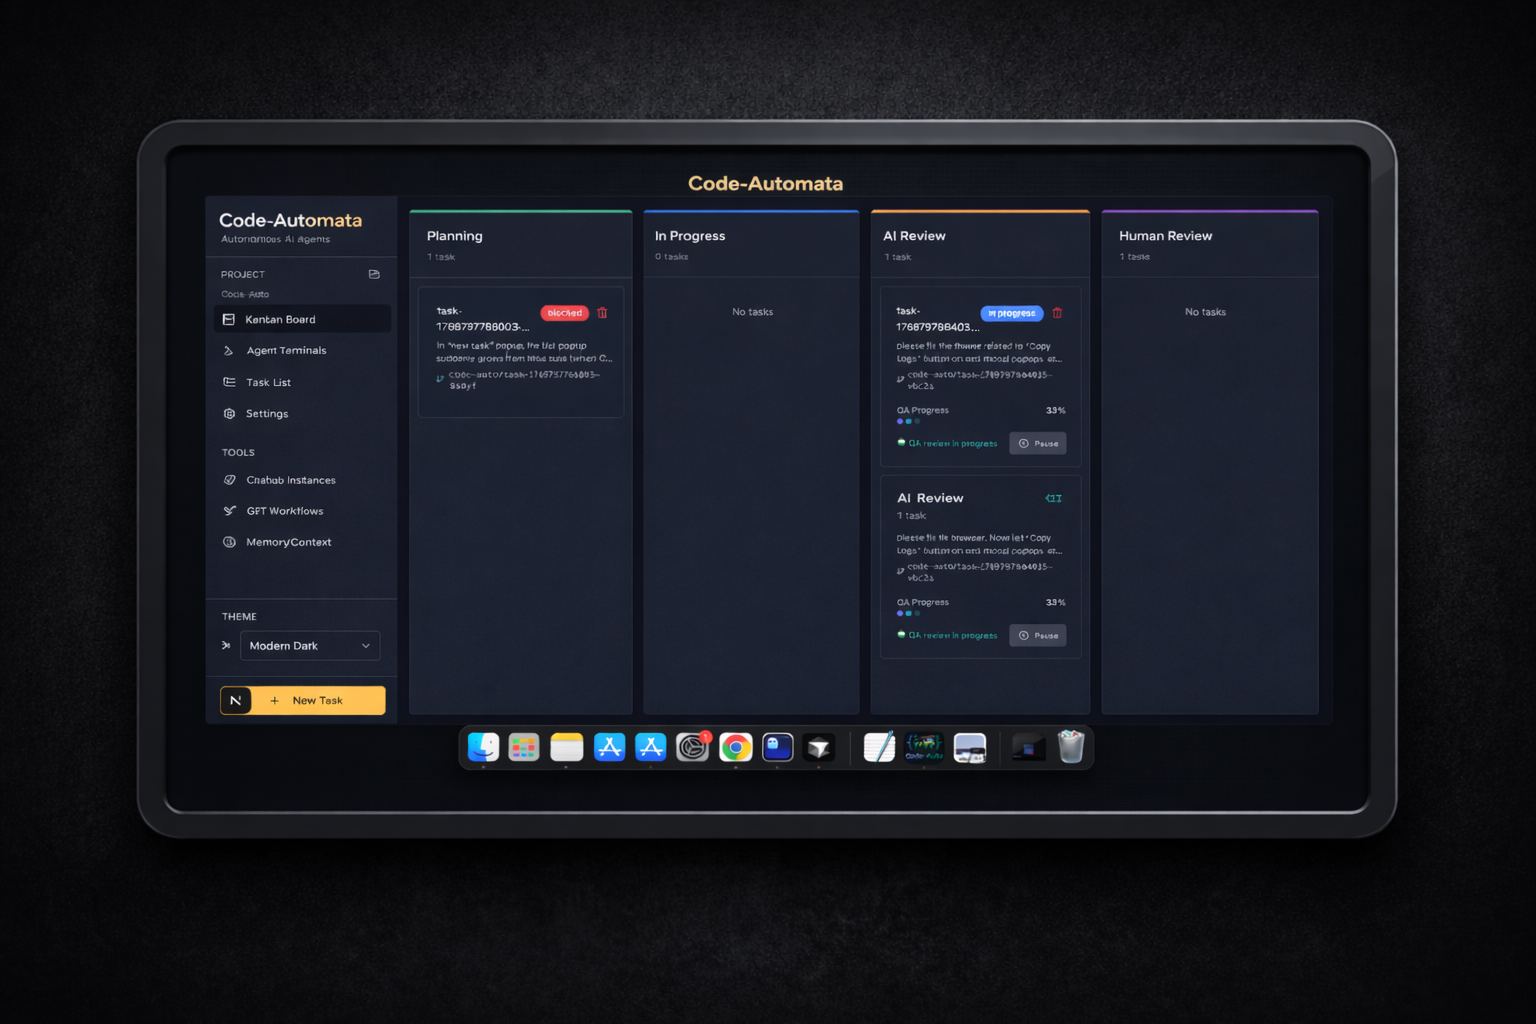
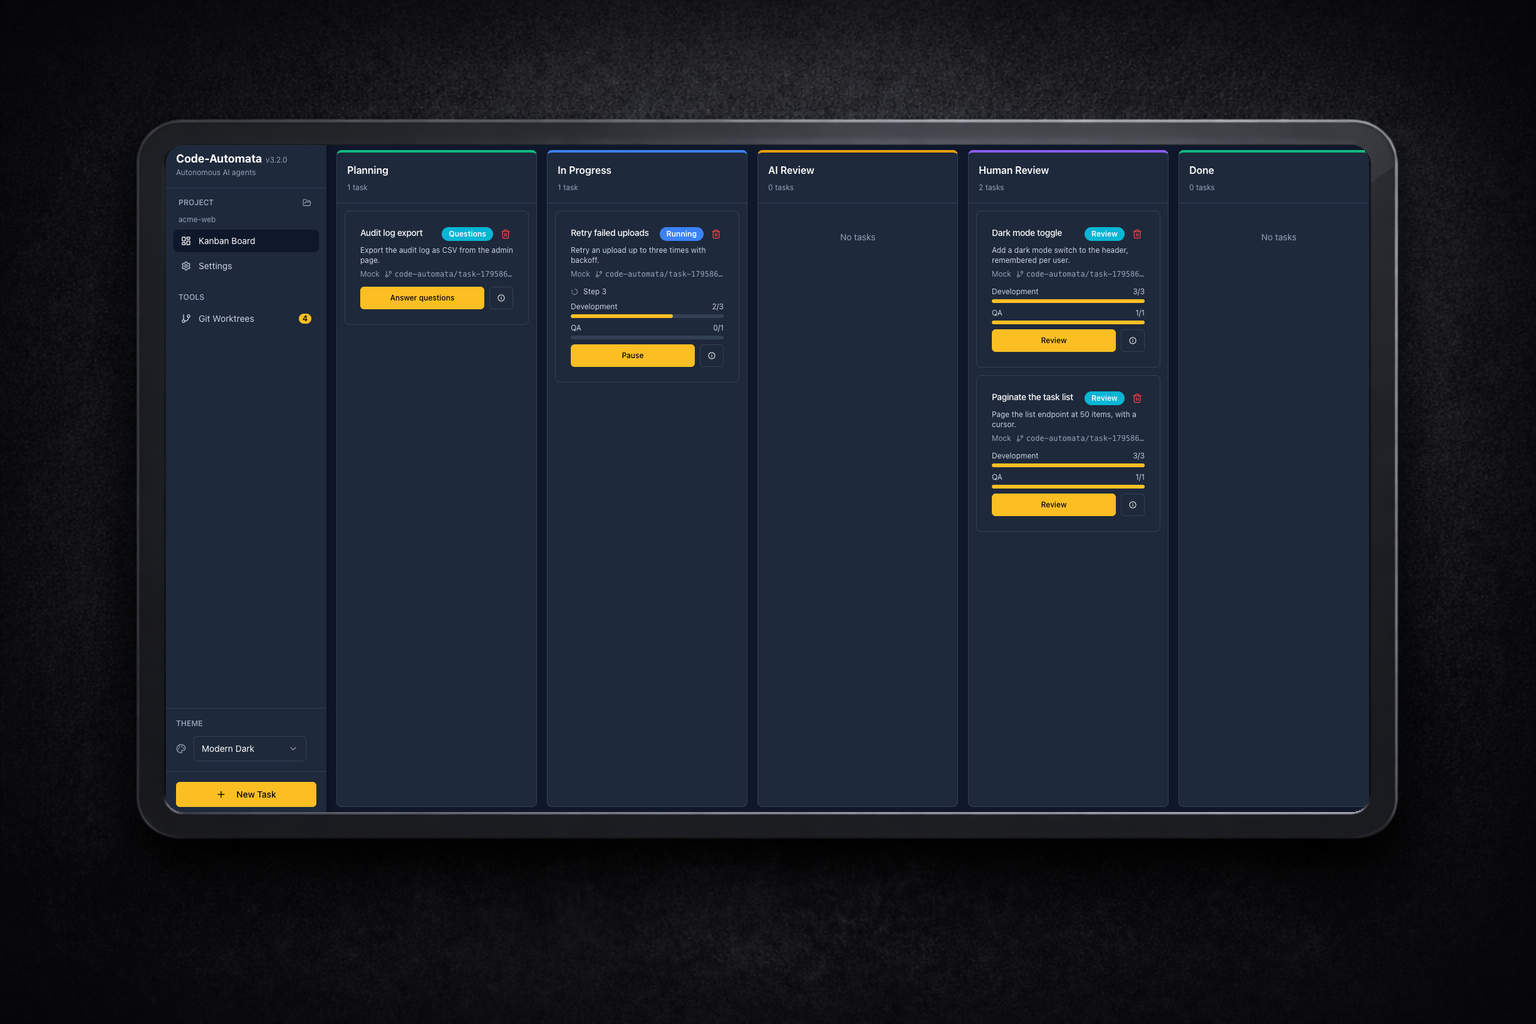
Release 3.2.0: version, changelog, README demo and screenshots
- Version 3.2.0 (Cargo.toml, ui/package.json).
- CHANGELOG 3.2.0: rate-limit pause, Codex, Gemini (experimental), an
  agent per phase with the default Claude Code models and how to change
  them, project memory, MCP servers for agents, Open in terminal, nvm
  lookup; known limits as the reviewer listed (Codex never run live,
  Gemini's Google sign-in ended, Windows .cmd shims, Open in terminal
  untried on Windows and Linux, Claude limit wordings unproven against a
  real limit, the eight-day cap).
- README: the agents and a Things-to-know line each for limits, MCP and
  memory, and Gemini and Codex sign-in; a Screenshots section.
- e2e/demo.mjs (`yarn demo`): a scripted, headless 1920x1080 run of the
  real UI with the mock agent, recorded to video with screenshots.
  docs/images/ca.png now shows the real board inside the original tablet
  frame; the 2.2.x step screenshots (unreferenced, about 19 MB) are
  replaced by six current ones in docs/images/screenshots/.
- Model dropdowns show the model's name, the id in a tooltip (the
  "Name (id)" text was cut off).
- The live engine test runs a different agent configuration per phase;
  it passed against Claude Code (Sonnet) to Human Review.

Claude-Session: https://claude.ai/code/session_01Euju6UiFfM3Ax8sqArwAHM

Changed region(s): [[0.0938, 0.125, 0.9062, 0.8125]]

diff --git a/ui/src/components/tasks/agent-picker.tsx b/ui/src/components/tasks/agent-picker.tsx
@@ -373,8 +373,8 @@ export function ModelField({
       >
         <option value="">Default (the CLI picks)</option>
         {models.map((m) => (
-          <option key={m.id} value={m.id}>
-            {m.label === m.id ? m.id : `${m.label} (${m.id})`}
+          <option key={m.id} value={m.id} title={m.id}>
+            {m.label}
           </option>
         ))}
         <option value={OTHER}>Other…</option>

diff --git a/crates/core/tests/live_engine.rs b/crates/core/tests/live_engine.rs
@@ -32,13 +32,23 @@ async fn live_claude_takes_a_task_from_plan_to_human_review() {
     settings.save(&project).await.unwrap();
 
     let engine = Engine::open(project, Binaries::from_env()).await.unwrap();
-    let mut agent = AgentConfig::new(Provider::Claude);
-    agent.model = Some("sonnet".into());
+    // A different configuration per phase (all Sonnet, so the run stays cheap): the alias to plan
+    // and review, the full id to develop.
+    let sonnet = |model: &str| {
+        let mut agent = AgentConfig::new(Provider::Claude);
+        agent.model = Some(model.into());
+        agent
+    };
+    let agents = ca_core::PhaseAgents {
+        planning: sonnet("sonnet"),
+        dev: sonnet("claude-sonnet-5-5"),
+        qa: sonnet("sonnet"),
+    };
     let task = engine
         .create_task(
             "Add a hello file",
             "Create a file named hello.txt at the repository root containing exactly the word hello. Nothing else.",
-            agent,
+            agents,
             false,
         )
         .await

diff --git a/CHANGELOG.md b/CHANGELOG.md
@@ -4,6 +4,39 @@ All notable changes to Code-Automata are documented here.
 
 ---
 
+## 3.2.0
+
+Rate limits, Codex, an agent per phase, and project memory. If you have an earlier 3.x installed, it offers this update when it starts.
+
+### New
+
+- **A usage limit no longer fails your tasks.** When Claude Code, Codex, Cursor, Amp or Gemini stops because your subscription's limit was reached, the task shows "Rate-limited" and "Resumes at 15:42", and starts again on its own once the limit resets (also after a restart, when its project is open). Other tasks on the same CLI wait instead of failing one after another; tasks on other CLIs go on. An Opus or Sonnet limit holds back only tasks on that model. When the CLI does not say when the limit resets, the task tries again after 30 minutes ("Retrying at …"). "Resume now" tries straight away; you can also move the task to another CLI or model.
+- **Codex** (OpenAI's CLI) can run tasks: planning in its read-only sandbox, development and QA with full access, its reasoning effort as the mode, answers checked against the task's schema.
+- **Gemini (experimental)**: Google's Gemini CLI can run tasks too. See the known limits.
+- **An agent per phase.** The new-task dialog picks the agent for planning, development and QA separately, each a CLI and a model, or one for all three ("Use the same agent…"). Models come from each CLI's own list where it has one (Cursor, Gemini, Codex), else the app's, plus "Default" and "Other…". New tasks start from your last choice; with Claude Code the first time, **Fable 5.2 plans and reviews and Opus 5.5 develops**. To change that, untick or edit the models in the dialog (or the task's Edit, also while it is rate-limited). The task details show each phase's agent.
+- **Project memory.** Agents report lasting facts about a project (a build quirk, a convention, a pitfall); they are kept in `.code-automata/memory.md` and given to every later task. Settings → Project memory shows it, lets you edit or prune it, and turns it off.
+- **MCP servers for agents.** Settings → MCP servers for agents lists the only MCP servers agents may use, per project (none by default; your own servers stay out). Import copies one you already set up for Claude Code, Codex, Gemini or in the project's `.mcp.json`. Development and QA runs get them; planning runs do not.
+- **Open in terminal** next to Open in editor (Human Review, task details, Worktrees). Choose the terminal app in Settings.
+- **CLIs installed with npm under another node version** (nvm, fnm) are found, and run on the node they were installed with.
+
+### Changed
+
+- **The planner decides how many subtasks a task needs.** The suggested counts are a guide, and there is no upper limit (it was 25).
+- **A failed run names the model it used** when the agent's own message does not, so a model your login cannot use is easy to spot and change.
+- **Task files are version 3** (an agent per phase). Older task files are read as before and rewritten on their next change; 3.1 cannot read a task once 3.2 has changed it.
+- Amp's error messages now reach the card (they were dropped).
+
+### Known limits
+
+- **Codex has not run live here** (no ChatGPT plan to test with): it is built from Codex's own source and tested on its event format. If a Codex run fails in a way the card does not explain, the run log has its output. The commands a Codex agent runs can see the variables you give a stdio MCP server (Codex has no other way to pass them).
+- **Gemini CLI's "Sign in with Google" no longer works for individuals** (Google moved them to its Antigravity products). Gemini CLI now needs a Gemini API key, Vertex AI or a company Code Assist plan. Runs from the app remove `GEMINI_API_KEY` and `GOOGLE_API_KEY` (as they do every CLI's API key, so subscriptions are used), so from the app it works with Vertex AI or a company plan. It has had no live run, hence "experimental".
+- **A real usage limit has not been hit while testing**: detection follows each CLI's documented and source messages and is tested on recorded shapes. A Claude limit worded unlike any known message is shown as a failed run (Resume works as usual). A reset more than eight days ahead (a monthly credit date) is treated as unknown and retried every 30 minutes.
+- **Cursor and Amp keep their own MCP settings**; the per-project list applies to Claude Code, Codex and Gemini.
+- **Open in terminal was tried on macOS only**; on Windows and Linux it is untested. Codex or Gemini installed only as npm `.cmd` shims on Windows are untested too.
+- A repository opened on its own and inside a workspace keeps two separate project memories.
+
+---
+
 ## 3.1.2
 
 Faster, smoother updates and a new logo. If you have an earlier 3.x installed, it offers this update when it starts.

diff --git a/README.md b/README.md
@@ -7,7 +7,7 @@
 </div>
 
 <a href="https://youtu.be/jNYMC-HXDNA" target="_blank" rel="noopener noreferrer">
-  <img src="./docs/images/ca.png" alt="Code-Automata logo" />
+  <img src="./docs/images/ca.png" alt="The Code-Automata board: tasks in Planning, In Progress and Human Review" />
 </a>
 
 _"Ever since the first MVP was shipped, Code-Automata™ has started modifying its **own code**..."_ — It felt weird at first, but it is fun to watch it ship its own features one by one to production. That's the power of a clean workflow design!
@@ -41,7 +41,7 @@ The app checks for a new version once at launch and asks before installing it. U
 
 ## What it is
 
-Code-Automata runs AI coding agents (Claude Code, Cursor, Amp) through a five-column Kanban workflow. Each task gets its own git worktree and branch inside the project you open.
+Code-Automata runs AI coding agents (Claude Code, Codex, Cursor, Amp, and Gemini as experimental) through a five-column Kanban workflow, with an agent of your choice for each phase. Each task gets its own git worktree and branch inside the project you open.
 
 ```
 ┌──────────┐    ┌─────────────┐    ┌───────────┐    ┌──────────────┐    ┌──────┐
@@ -56,11 +56,27 @@ Code-Automata runs AI coding agents (Claude Code, Cursor, Amp) through a five-co
 
 3.0 keeps every run's position on disk. Closing the app, a crash or Pause leaves the task where it was. Resume continues the same subtask, using the agent's own session and the partial work.
 
+## Screenshots
+
+| | |
+|---|---|
+| ![A new task with an agent per phase](docs/images/screenshots/new-task-agents.png) | ![Reviewing the plan](docs/images/screenshots/plan-review.png) |
+| A new task: an agent and model per phase | Reviewing the plan before development |
+| ![A task's details](docs/images/screenshots/task-details.png) | ![Human review](docs/images/screenshots/human-review.png) |
+| A task's subtasks, changes and runs | Human review: what was built, checks, QA, pull request |
+| ![MCP servers and project memory](docs/images/screenshots/settings-mcp-memory.png) | ![The board](docs/images/screenshots/board.png) |
+| Settings: MCP servers for agents and project memory | The board |
+
+The screenshots and the video come from a scripted run of the app with its test agent (`yarn demo`).
+
 ## Things to know
 
 - Agents work in a git worktree per task, and they can edit any file there, including your repository's git hooks (for example husky's `.husky/`). Code-Automata runs hooks as git normally does: `post-commit` and `prepare-commit-msg` on each checkpoint commit, `pre-push` when it creates or updates the pull request, with your login shell's `PATH`. Review hook changes in a task's diff before you push it.
 - Pull requests: on GitHub they are opened with the [GitHub CLI](https://cli.github.com/) (`gh`, logged in); on GitLab, including self-hosted 11.10 or later, git opens the merge request itself with push options, no CLI needed. Any other host gets the branch pushed and keeps the link the host prints for opening a pull request. The host is detected from `origin`; set it under Settings → Pull requests when the address does not say (a self-hosted GitLab, say).
 - A project is a git repository's root, or a **workspace**: a folder whose every (non-hidden) folder is a git repository. In a workspace one task can change several repositories, each in its own worktree, and gets one pull request per repository it changed. A folder inside a repository is not opened as that repository; open its root.
+- Usage limits: a task whose CLI hit its subscription's limit waits ("Rate-limited, resumes at …") and starts again on its own; other tasks on that CLI wait with it.
+- Agents get no MCP servers unless you list them under Settings → MCP servers for agents (development and QA runs only). What agents learn about a project is kept in `.code-automata/memory.md` and given to later tasks; edit or turn it off in Settings.
+- Gemini (experimental): Google ended Gemini CLI's free sign-in for individuals; from the app it works with Vertex AI or a company Code Assist plan. Codex needs a ChatGPT plan. Runs leave out every CLI's API-key variable, so your subscriptions are used.
 - The installers are not code-signed (see Install).
 
 ## Repository layout

diff --git a/CLAUDE.md b/CLAUDE.md
@@ -93,4 +93,5 @@ cd ui && yarn vitest run -t "name of the test"                            # by t
 - `harness.mjs` starts `vite preview` once and a fresh `ca-server --allow-mock --mock-scenario <file>` per scenario on port 7878, each with a new repository; `rules(devs, extra)` builds the mock scenario (put `extra` rules first to fail, hang or slow one step; `once()` plays a rule only the first time).
 - Drive the page through `data-testid`s and DOM clicks (`click`, `cardAction`): agent-browser's pointer clicks can land on a card that is moving between columns. Never trigger a browser dialog (`confirm`, `alert`); confirmations are inline.
 - A failed scenario leaves a screenshot in `ui/e2e/artifacts/` (CI uploads it).
+- `e2e/demo.mjs` (`yarn demo`) records the README's video and screenshots the same way, headless at 1920×1080 with a slowed mock (`ca-server --wake-grace-ms` and `once()` as in the suite), into `ui/e2e/artifacts/demo/`. `docs/images/ca.png` is its `board.png` set into the tablet frame of the original image (screen area 166,145 to 1369,812).
 - Git runs with `GIT_OPTIONAL_LOCKS=0` and retries a write that hit a held `index.lock`: the e2e suite found the UI's worktree status reads colliding with the engine's resets.

diff --git a/AGENTS.md b/AGENTS.md
@@ -59,6 +59,7 @@ yarn test           # Vitest
 yarn build          # typecheck + vite build into ui/dist
 yarn format         # Prettier
 yarn e2e            # after `cargo build` and `yarn build`: fourteen agent-browser scenarios
+yarn demo           # the README's video and screenshots, into ui/e2e/artifacts/demo/
 ```
 
 Releases: `.github/workflows/release.yml` builds the installers (universal macOS DMG, Windows NSIS, Linux AppImage and deb) on a `v*` tag that matches the version in `Cargo.toml` and `ui/package.json`, and creates a **draft** release with `latest.json` (the updater's manifest) and `checksums.sha256`. Run it by hand without a tag for a dry run (workflow artifacts only). Updates are signed with the `TAURI_SIGNING_PRIVATE_KEY` secret. A local `cargo tauri build` with bundles needs that key too (`TAURI_SIGNING_PRIVATE_KEY="$(cat <key file>)"`), or `--config '{"bundle":{"createUpdaterArtifacts":false}}'`. Installers are not code-signed.
